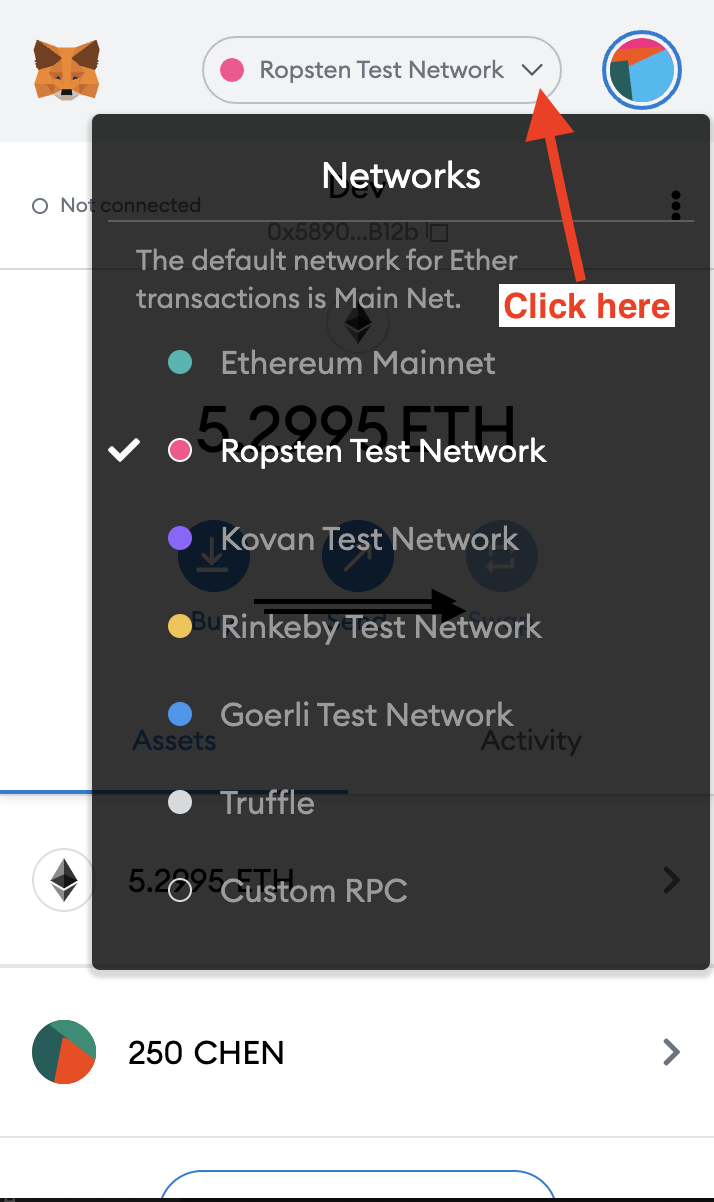
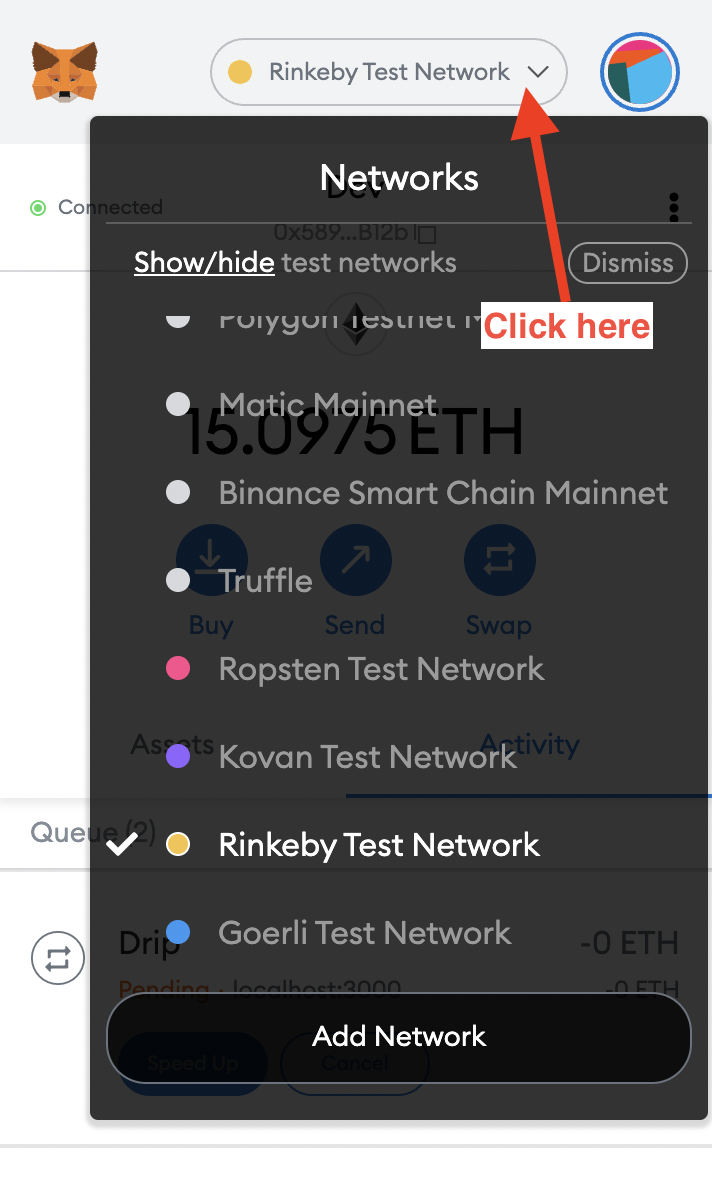
Migrate to rinkeby testnet
Because discord bots do not read from ropsten :(

diff --git a/client/src/App.js b/client/src/App.js
@@ -6,7 +6,7 @@ import Web3 from 'web3';
 import ENS, { getEnsAddress } from '@ensdomains/ensjs';
 
 import './css/App.css';
-import { ACTIONS, isMetaMaskInstalled, isRopstenNetwork, zeroAddress } from './utils';
+import { ACTIONS, isMetaMaskInstalled, isRinkebyNetwork, zeroAddress } from './utils';
 
 import AccountBalanceWalletOutlinedIcon from '@material-ui/icons/AccountBalanceWalletOutlined';
 import Button from '@material-ui/core/Button';
@@ -33,8 +33,8 @@ import {
   getIsOwner,
   setName,
   getName,
-  getIsRopsten,
-  setIsRopsten,
+  getIsRinkeby,
+  setIsRinkeby,
   getHasMetaMask,
   setHasMetaMask,
 } from './store/accountSlice';
@@ -57,7 +57,7 @@ function App() {
   const decimals = useSelector(getDecimals);
   const latestBlockNum = useSelector(getLatestBlockNum);
   const isOwner = useSelector(getIsOwner);
-  const isRopsten = useSelector(getIsRopsten);
+  const isRinkeby = useSelector(getIsRinkeby);
   const hasMetaMask = useSelector(getHasMetaMask);
 
   const [initialized, setInitialized] = useState(false);
@@ -65,10 +65,10 @@ function App() {
 
   async function init() {
     const hasMM = isMetaMaskInstalled();
-    const onCorrectNetwork = await isRopstenNetwork();
+    const onCorrectNetwork = await isRinkebyNetwork();
 
     dispatch(setHasMetaMask(hasMM));
-    dispatch(setIsRopsten(onCorrectNetwork));
+    dispatch(setIsRinkeby(onCorrectNetwork));
 
     if (hasMM && onCorrectNetwork) {
       let Contract = TruffleContract(CHENDollas);
@@ -112,7 +112,7 @@ function App() {
       return;
     }
 
-    if (!hasMetaMask || !isRopsten) {
+    if (!hasMetaMask || !isRinkeby) {
       return;
     }
 
@@ -164,7 +164,7 @@ function App() {
       web3.eth.clearSubscriptions();
     };
   // eslint-disable-next-line
-  }, [initialized, isRopsten, hasMetaMask]);
+  }, [initialized, isRinkeby, hasMetaMask]);
 
   async function getAccount() {
     const ethereum = window.ethereum;
@@ -252,7 +252,7 @@ function App() {
             Please wait a few seconds to warm up the printer...your transaction hash is{' '}
             <Link
               color="textPrimary"
-              href={`https://ropsten.etherscan.io/tx/${hash}`}
+              href={`https://rinkeby.etherscan.io/tx/${hash}`}
               target="_blank">
               {hash}
             </Link>
@@ -299,7 +299,7 @@ function App() {
             Please wait a few seconds to process...your transaction hash is{' '}
             <Link
               color="textPrimary"
-              href={`https://ropsten.etherscan.io/tx/${hash}`}
+              href={`https://rinkeby.etherscan.io/tx/${hash}`}
               target="_blank">
               {hash}
             </Link>
@@ -349,7 +349,7 @@ function App() {
             Please wait a few seconds to process...your transaction hash is{' '}
             <Link
               color="textPrimary"
-              href={`https://ropsten.etherscan.io/tx/${hash}`}
+              href={`https://rinkeby.etherscan.io/tx/${hash}`}
               target="_blank">
               {hash}
             </Link>
@@ -403,7 +403,7 @@ function App() {
             Please wait a few seconds to process...your transaction hash is{' '}
             <Link
               color="textPrimary"
-              href={`https://ropsten.etherscan.io/tx/${hash}`}
+              href={`https://rinkeby.etherscan.io/tx/${hash}`}
               target="_blank">
               {hash}
             </Link>

diff --git a/client/src/ui/NUXDialog.js b/client/src/ui/NUXDialog.js
@@ -2,7 +2,7 @@ import MetaMaskOnboarding from '@metamask/onboarding';
 import React from 'react';
 import { useSelector } from 'react-redux';
 import { isNUXDialogOpen } from '../store/NUXDialogSlice';
-import { getIsRopsten, getHasMetaMask } from '../store/accountSlice';
+import { getIsRinkeby, getHasMetaMask } from '../store/accountSlice';
 import { isChrome, isMobile } from "react-device-detect";
 
 import Box from '@material-ui/core/Box';
@@ -20,7 +20,7 @@ import network from '../img/network.png';
 
 export default function NUXDialog(props) {
   const open = useSelector(isNUXDialogOpen);
-  const isRopsten = useSelector(getIsRopsten);
+  const isRinkeby = useSelector(getIsRinkeby);
   const hasMetaMask = useSelector(getHasMetaMask);
   const onboarding = React.useRef();
 
@@ -96,23 +96,23 @@ export default function NUXDialog(props) {
               Get some{' '}
               <Link
                 color="secondary"
-                href="https://faucet.ropsten.be/"
+                href="https://faucets.chain.link/rinkeby"
                 target="_blank">
-                Ropsten ETH
+                Rinkeby ETH
               </Link>
               {' '}to pay for gas fees
             </Typography>
           </li>
           <li>
             <Typography gutterBottom>
-              Switch to "Ropsten Test Network" {isRopsten
+              Switch to "Rinkeby Test Network" {isRinkeby
                 ? <CheckCircleIcon className="status_icon" />
                 : <CancelIcon className="status_icon" />
               }
             </Typography>
             <img
               src={network}
-              alt="switch network to Ropsten"
+              alt="switch network to Rinkeby"
               width="50%"
             />
           </li>

diff --git a/client/src/store/accountSlice.js b/client/src/store/accountSlice.js
@@ -7,7 +7,7 @@ export const accountSlice = createSlice({
     decimals: 18,
     hasMetaMask: false,
     isOwner: false,
-    isRopsten: false,
+    isRinkeby: false,
     latestBlockNum: 0,
     name: null,
   },
@@ -27,8 +27,8 @@ export const accountSlice = createSlice({
     setIsOwner: (state, action) => {
       state.isOwner = action.payload;
     },
-    setIsRopsten: (state, action) => {
-      state.isRopsten = action.payload;
+    setIsRinkeby: (state, action) => {
+      state.isRinkeby = action.payload;
     },
     setName: (state, action) => {
       state.name = action.payload;
@@ -42,7 +42,7 @@ export const {
   setHasMetaMask,
   setLatestBlockNum,
   setIsOwner,
-  setIsRopsten,
+  setIsRinkeby,
   setName,
 } = accountSlice.actions;
 
@@ -51,7 +51,7 @@ export const getAddress = state => state.account.address;
 export const getHasMetaMask = state => state.account.hasMetaMask;
 export const getLatestBlockNum = state => state.account.latestBlockNum;
 export const getIsOwner = state => state.account.isOwner;
-export const getIsRopsten = state => state.account.isRopsten;
+export const getIsRinkeby = state => state.account.isRinkeby;
 export const getName = state => state.account.name;
 
 export default accountSlice.reducer;

diff --git a/blockchain/truffle-config.js b/blockchain/truffle-config.js
@@ -48,6 +48,10 @@ module.exports = {
       port: 7545,            // Standard Ethereum port (default: none)
       network_id: "*",       // Any network (default: none)
     },
+    rinkeby: {
+      provider: () => new HDWalletProvider(MNEMONIC, `https://rinkeby.infura.io/v3/${INFURA_PROJECT_ID}`),
+      network_id: 4,       // rinkeby's id
+    },
     ropsten: {
       provider: () => new HDWalletProvider(MNEMONIC, `https://ropsten.infura.io/v3/${INFURA_PROJECT_ID}`),
       network_id: 3,       // Ropsten's id

diff --git a/client/src/utils.js b/client/src/utils.js
@@ -3,13 +3,13 @@ export function isMetaMaskInstalled() {
   return Boolean(ethereum && ethereum.isMetaMask);
 }
 
-export async function isRopstenNetwork() {
+export async function isRinkebyNetwork() {
   if (!isMetaMaskInstalled()) {
     return false;
   }
 
   const chainId = await window.ethereum.request({ method: 'eth_chainId' });
-  return chainId === '0x3';
+  return chainId === '0x4';
 }
 
 export const ACTIONS = {

diff --git a/client/src/ui/TransactionsTable.js b/client/src/ui/TransactionsTable.js
@@ -36,7 +36,7 @@ export default function TransactionsTable() {
                 <Link
                   color="textPrimary"
                   underline="none"
-                  href={`https://ropsten.etherscan.io/address/${row.address}`}
+                  href={`https://rinkeby.etherscan.io/address/${row.address}`}
                   target="_blank">
                   {row.address}
                 </Link>
